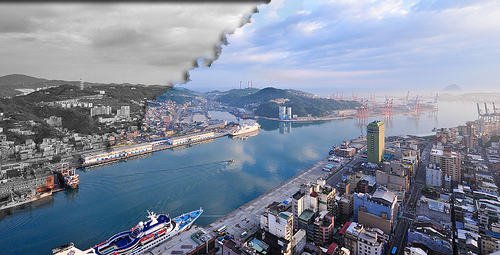
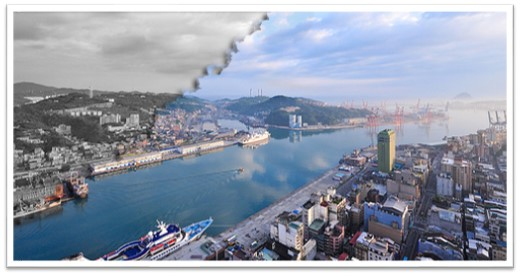
final

diff --git a/_includes/p7.html b/_includes/p7.html
@@ -1,12 +1,16 @@
 <div class="container-fluid" id="page-4">
   <div class="row  order">
-    <div class="col-md-12 col-xs-12 ">
+    <div class="col-md-7 col-xs-12 ">
       <div class="article" style="margin-right:0%;">
-        <h3>肆，興。</h3>
+        <h3><span>肆，興。</span></h3>
 那天回家後，爺爺看起來特別疲倦，之後就再沒機會和爺爺出外走走了。真想讓爺爺看看現在的基隆，雖是依然回不去之前輝煌的時代，但基隆甦醒了，2017年基隆獲得「亞洲最佳郵輪母港 」的稱號，近幾年基隆市長也與中央密切合作，共同推動「港市發展計畫 」，解決長期以來中央與地方政府不協調導致的經濟停滯。
 <br>我呢，也忘不了爺爺說起從前時總是熠熠生輝的雙眼，積極參與「空間再生 」計畫，為老舊地區重新潑上絢爛的漆。基隆停滯了這麼多年，過去的繁華像海市蜃樓般虛無飄渺，但浪依舊，洶湧、堅毅；海依舊，柔軟、靈活，彷彿時時鍥而不捨提醒著我們，別放棄，基隆會以別的面貌再現。
 
       </div>
+    </div>
+    <div class="col-md-5 col-xs-12">
+
+        <img src="img/0789.jpg" alt="0789" id="future">
     </div>
   </div>
 </div>

diff --git a/_layouts/content.html b/_layouts/content.html
@@ -27,6 +27,7 @@
               </a>
               <div class="dropdown-menu" aria-labelledby="navbarDropdown">
                 <a class="dropdown-item" href="https://danielwu951219.github.io/blog-contest/#page-1">序，憶。</a>
+                <a class="dropdown-item" href="https://danielwu951219.github.io/blog-contest/#page-5">壹，華。</a>
                 <a class="dropdown-item" href="https://danielwu951219.github.io/blog-contest/#page-2">貳，落。</a>
                 <a class="dropdown-item" href="https://danielwu951219.github.io/blog-contest/#page-3">參，念。</a>
                 <a class="dropdown-item" href="https://danielwu951219.github.io/blog-contest/#page-4">肆，興。</a>
@@ -59,6 +60,7 @@
        {% include footer.html %}
 
     </div>
+    <div id="gotop">˄</div>
 
     {% include global-js.html %}
 
@@ -67,6 +69,7 @@
 <script src="https://maxcdn.bootstrapcdn.com/bootstrap/4.0.0/js/bootstrap.min.js" integrity="sha384-JZR6Spejh4U02d8jOt6vLEHfe/JQGiRRSQQxSfFWpi1MquVdAyjUar5+76PVCmYl" crossorigin="anonymous"></script>
     <script src="https://use.typekit.net/hcn1hrh.js"></script>
 <script>try{Typekit.load({ async: true });}catch(e){}</script>
+
 
 
 </body>

diff --git a/_includes/p4.html b/_includes/p4.html
@@ -2,7 +2,7 @@
   <div class="row  order">
     <div class="col-md-12 col-xs-12 ">
       <div class="article">
-<h3>貳，落。</h3>
+<h3><span>貳，落。</span></h3>
 「可是爺爺，我記得你是計程車司機啊！怎麼會在報關行工作呢？」
 
 <br>那是之後的事啦，從過去的歷史來看，基隆的五光十色多虧了基隆港，而基隆港的興起是船隻、日本人及美軍堆疊起來的，但後來日本人走了，美軍也走了，連船隻都投入高雄港 的懷抱，基隆港像是被遺棄的嬪妃，雨是妃的淚，為乘船離去的帝王而泣，為一間間結束營業的委託行、一家家徹底消失在夜幕中的酒家而泣，與船隻共生共存的報關行也黯然失色，基隆的就業機會少了 ，人口開始大量外移 ，選擇留在當地的人也大多通勤 到台北工作了，我也免不了尋找其他工作的命運，後來就當計程車司機啦！

diff --git a/_includes/head.html b/_includes/head.html
@@ -1,7 +1,7 @@
 <div class="jumbotron text-center font-weight-bold" id="jumbotron"  style="background: url('img/123.jpg') no-repeat scroll;background-size: cover;padding-top:8%;">
 	<!-- <p class="text-white text-center" >Jekyll theme by <a href="http://szhshp.org">Szhshp</a></p> -->
-	<p class="display-4 " >尋，基隆</p>
-	<p class=" text-center" >我與基隆的對話</p>
+	<p style="font-size:4vw;margin-bottom:0.5em" >尋，基隆</p>
+	<p class=" text-center"style="font-size:2vw;" >我與基隆的對話</p>
 	<!-- <p class="text-white text-center" >Github: <a href="https://github.com/szhielelp/JekyllTheme-ProjectGaia">Project Gaia</a></p>
 	<p class="lead">
 		<a class="btn btn-secondary" href="intro/2017/02/05/helloworld.html" role="button">What's New?</a>

diff --git a/_includes/p5.html b/_includes/p5.html
@@ -2,7 +2,7 @@
   <div class="row  order" id="page5">
     <div class="col-md-8 col-xs-12 ">
       <div class="article float">
-        <h3>參，念。</h1>
+        <h3><span>參，念。</span></h1>
           記得那晚，像有一班劇團住進了我的腦袋，爺爺說的故事不斷上演著。許是興奮著聽接下來的故事吧，隔天一早難得的忘了帶傘上學，基隆的雨說下就下，沒帶傘出門可是要淋個落湯雞的！
 
         <br>  果真那天放學時基隆又是大雨磅礡，不過校門轉角處出現了熟悉的身影－爺爺。基隆的學校大多在山上，上學前總是要爬好長一段坡，年邁的爺爺卻還是替我送傘，我高興地抱住爺爺，殊不知，這將是最後一次。

diff --git a/_layouts/analysis.html b/_layouts/analysis.html
@@ -29,6 +29,7 @@
               </a>
               <div class="dropdown-menu" aria-labelledby="navbarDropdown">
                 <a class="dropdown-item" href="https://danielwu951219.github.io/blog-contest/#page-1">序，憶。</a>
+                <a class="dropdown-item" href="https://danielwu951219.github.io/blog-contest/#page-5">壹，華。</a>
                 <a class="dropdown-item" href="https://danielwu951219.github.io/blog-contest/#page-2">貳，落。</a>
                 <a class="dropdown-item" href="https://danielwu951219.github.io/blog-contest/#page-3">參，念。</a>
                 <a class="dropdown-item" href="https://danielwu951219.github.io/blog-contest/#page-4">肆，興。</a>

diff --git a/_includes/p8.html b/_includes/p8.html
@@ -1,6 +1,6 @@
 <div class="container-fluid" style="margin-top:5%;margin-bottom:5%;">
   <div class="row  order">
-    <div class="col-md-6 col-xs-12 ">
+    <div class="col-md-4 col-xs-12 ">
       <div class="article">
 
         <br>「我們做到了，爺爺。」
@@ -9,9 +9,9 @@
       </div>
       <br>
     </div>
-    <div class="col-md-6 col-xs-12">
+    <div class="col-md-8 col-xs-12">
       <div class="photo" style="margin-top:5%">
-        <img src="img/0789.jpg" alt="page8"style="margin-bottom:10%;">
+        <img src="img/culture.jpg" alt="page8"style="margin-bottom:10%;">
       </div>
     </div>
   </div>

diff --git a/_includes/p1.html b/_includes/p1.html
@@ -2,7 +2,7 @@
   <div class="row  order">
     <div class="col-md-8 col-xs-12 ">
       <div class="article">
-      <h3>序，憶。</h3>
+      <h3><span>序，憶。</span></h3>
       那是一本老舊的相本，長年擺在櫃子裡，斑駁泛黃的封面積了厚厚一層灰，輕輕一翻，「劈啦－」互相擁抱的紙張硬是被我拆開，一股霉味傳來。
 
       <br>20年前，同樣的地方、同樣的櫃子，我也曾翻開它，當時爺爺就在我身旁，雨同樣下著。

diff --git a/css/main.css b/css/main.css
@@ -37,6 +37,13 @@ margin-top:25%;
 #p6{
   width:90%!important;
 }
+
+span{
+  border-left: 1px solid black;
+}
+#future{
+  margin-top:25%;
+}
 }
 
 
@@ -61,4 +68,21 @@ img {
 }
 .gif{
   z-index: 200;
+}
+
+h3{
+  font-size:1.1em;
+}
+
+#gotop {
+    position: fixed;
+    border-radius: 50px;
+    right: 20px;
+    bottom: 30px;
+    padding: 10px 16px;
+    font-size: 25px;
+    background: rgba(228, 211, 211, 0.36);
+    color: #FAFCFD;
+    cursor: pointer;
+    z-index: 1000;
 }

diff --git a/_includes/p6.html b/_includes/p6.html
@@ -1,7 +1,7 @@
-<div class="container-fluid">
+<div class="container-fluid" style="margin-top:5%;">
   <div class="row  order">
     <div class="col-md-8 col-xs-12 ">
-      <div class="article" style="margin-right:5%;">
+      <div class="article" >
         現在的觀光客，都只會來廟口這邊吃吃東西就毫不留情轉身離開，不知有多少人記住基隆曾經光輝的過往呢？」
 
   <br>  「老闆！那個像馬卡龍的是什麼啊？」

diff --git a/_includes/p2.html b/_includes/p2.html
@@ -2,7 +2,7 @@
   <div class="row  order">
     <div class="col-md-12 col-xs-12 ">
       <div class="article">
-
+        <h3><span>壹，華</span></h3>
         <br>1900年代初，街上到處都看得到日本人，基隆一下變得擁擠，有時我甚至懷疑自己是否為日本人。
 
         <br>「砰啪、砰啪」
